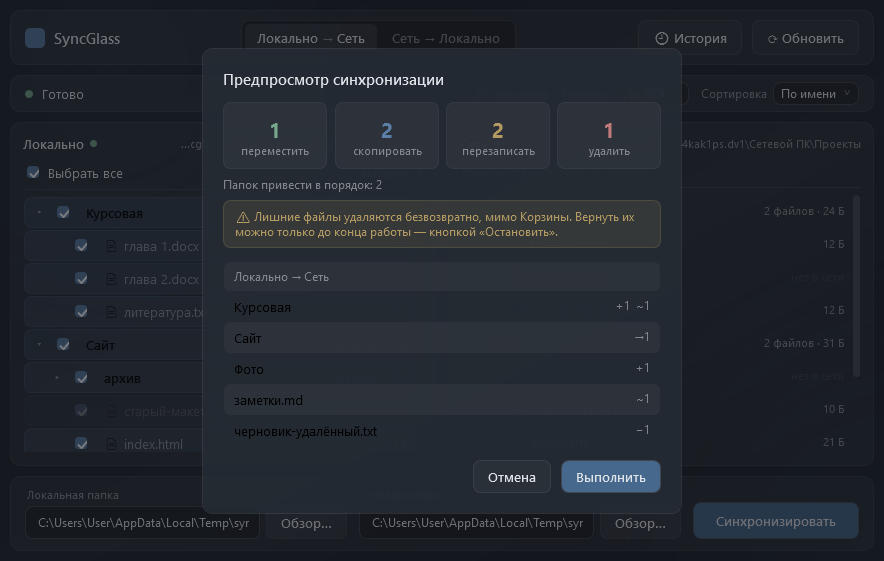
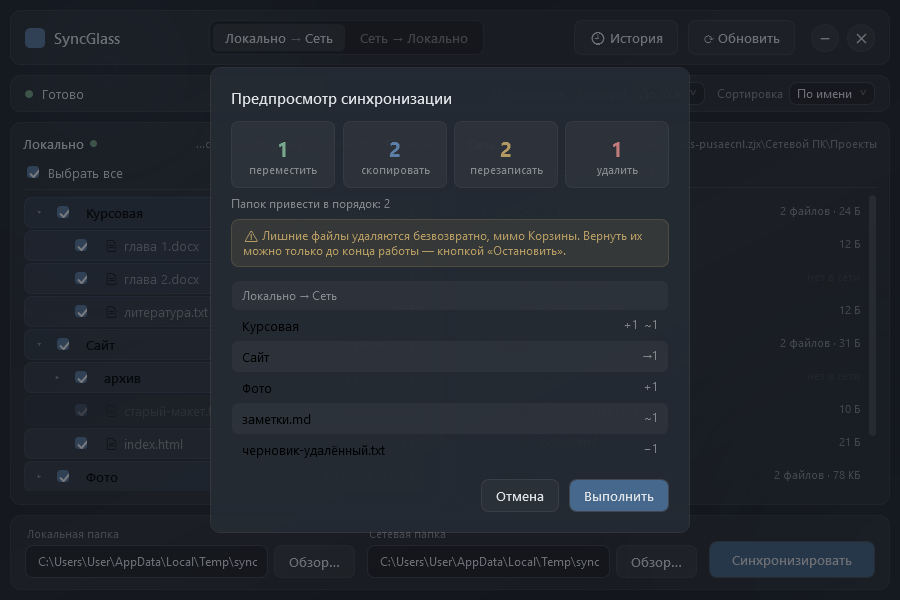
C#: свой заголовок окна, как в Paint - без белой системной полосы, кнопки в цвет темы, скруглённые углы
WindowChrome: заголовком служит верхняя панель, круглые «свернуть» и «закрыть»
(красное на наведении), скругление углов Windows 11 через DWM. Развернуть нечего -
окно постоянного размера. Высота окна целиком отдана содержимому.

diff --git a/csharp/src/SyncGlass.Wpf/Glass.xaml b/csharp/src/SyncGlass.Wpf/Glass.xaml
@@ -41,6 +41,7 @@
 
     <!-- Кнопки: обычная, «призрак», главная -->
     <Style x:Key="GlassButton" TargetType="Button">
+        <Setter Property="WindowChrome.IsHitTestVisibleInChrome" Value="True" />
         <Setter Property="Foreground" Value="{StaticResource Text}" />
         <Setter Property="Background" Value="{StaticResource GlassBg}" />
         <Setter Property="BorderBrush" Value="{StaticResource GlassBorder}" />
@@ -99,6 +100,7 @@
 
     <!-- Переключатель направления: два положения в утопленной рамке -->
     <Style x:Key="DirButton" TargetType="RadioButton">
+        <Setter Property="WindowChrome.IsHitTestVisibleInChrome" Value="True" />
         <Setter Property="Foreground" Value="{StaticResource TextDim}" />
         <Setter Property="FontSize" Value="12.5" />
         <Setter Property="FontWeight" Value="Medium" />
@@ -277,5 +279,38 @@
         <Setter Property="VirtualizingPanel.IsVirtualizing" Value="True" />
         <Setter Property="VirtualizingPanel.VirtualizationMode" Value="Recycling" />
         <Setter Property="VirtualizingPanel.ScrollUnit" Value="Pixel" />
+    </Style>
+    <!-- Кнопки окна в цвет темы, как в Paint Pro и калькуляторах: системная светлая полоса
+         заголовка со своими кнопками бросалась в глаза на тёмном стекле. -->
+    <Style x:Key="CaptionButton" TargetType="Button">
+        <Setter Property="Width" Value="28" />
+        <Setter Property="Height" Value="28" />
+        <Setter Property="Margin" Value="8,0,0,0" />
+        <Setter Property="Cursor" Value="Hand" />
+        <Setter Property="Focusable" Value="False" />
+        <Setter Property="WindowChrome.IsHitTestVisibleInChrome" Value="True" />
+        <Setter Property="Background" Value="{StaticResource GlassBg}" />
+        <Setter Property="BorderBrush" Value="{StaticResource GlassBorder}" />
+        <Setter Property="Template">
+            <Setter.Value>
+                <ControlTemplate TargetType="Button">
+                    <Border x:Name="Bg" CornerRadius="14" Background="{TemplateBinding Background}" BorderBrush="{TemplateBinding BorderBrush}" BorderThickness="1">
+                        <ContentPresenter HorizontalAlignment="Center" VerticalAlignment="Center" />
+                    </Border>
+                    <ControlTemplate.Triggers>
+                        <Trigger Property="IsMouseOver" Value="True">
+                            <Setter TargetName="Bg" Property="Background" Value="{StaticResource GlassBgStrong}" />
+                        </Trigger>
+                        <MultiTrigger>
+                            <MultiTrigger.Conditions>
+                                <Condition Property="IsMouseOver" Value="True" />
+                                <Condition Property="Tag" Value="close" />
+                            </MultiTrigger.Conditions>
+                            <Setter TargetName="Bg" Property="Background" Value="#D9FF5050" />
+                        </MultiTrigger>
+                    </ControlTemplate.Triggers>
+                </ControlTemplate>
+            </Setter.Value>
+        </Setter>
     </Style>
 </ResourceDictionary>

diff --git a/csharp/src/SyncGlass.Wpf/MainWindow.xaml b/csharp/src/SyncGlass.Wpf/MainWindow.xaml
@@ -7,6 +7,16 @@
         WindowStartupLocation="CenterScreen" Background="#1C2128"
         FontFamily="Segoe UI" FontSize="13" Foreground="{StaticResource Text}"
         TextOptions.TextFormattingMode="Display" UseLayoutRounding="True">
+
+    <!-- Свой заголовок окна, как в Paint Pro: системная белая полоса убрана, заголовком
+         служит верхняя панель (за неё окно и таскается). Рамка Windows осталась - тень,
+         прилипание к краям и скругление Windows 11 работают как раньше. Окно не прозрачное:
+         прозрачное WPF рисует без видеокарты. Размер постоянный - рамка не тянется. -->
+    <WindowChrome.WindowChrome>
+        <WindowChrome CaptionHeight="58" ResizeBorderThickness="0" GlassFrameThickness="0,0,0,1"
+                      CornerRadius="0" UseAeroCaptionButtons="False" />
+    </WindowChrome.WindowChrome>
+
     <Window.Resources>
         <BooleanToVisibilityConverter x:Key="BoolVis" />
         <local:InverseBoolVisibility x:Key="NotVis" />
@@ -307,6 +317,12 @@
                     <StackPanel DockPanel.Dock="Right" Orientation="Horizontal">
                         <Button Style="{StaticResource GhostButton}" Content="🕘 История" ToolTip="История синхронизаций" Click="History_Click" />
                         <Button Style="{StaticResource GhostButton}" Content="⟳ Обновить" ToolTip="Пересканировать папки" Margin="10,0,0,0" Click="Refresh_Click" />
+                        <Button Style="{StaticResource CaptionButton}" ToolTip="Свернуть" Margin="16,0,0,0" Click="Minimize_Click">
+                            <Path Data="M0,0 L10,0" Stroke="{StaticResource Text}" StrokeThickness="1.4" Width="10" Height="1.4" Stretch="Fill" />
+                        </Button>
+                        <Button Style="{StaticResource CaptionButton}" Tag="close" ToolTip="Закрыть" Click="Close_Click">
+                            <Path Data="M0,0 L9,9 M9,0 L0,9" Stroke="{StaticResource Text}" StrokeThickness="1.4" Width="9" Height="9" />
+                        </Button>
                     </StackPanel>
                     <Border HorizontalAlignment="Center" Background="#40000000" CornerRadius="7" BorderBrush="#0FFFFFFF" BorderThickness="1" Padding="3">
                         <StackPanel Orientation="Horizontal">

diff --git a/csharp/src/SyncGlass.Wpf/MainWindow.xaml.cs b/csharp/src/SyncGlass.Wpf/MainWindow.xaml.cs
@@ -81,6 +81,11 @@ public partial class MainWindow : Window
     protected override void OnSourceInitialized(EventArgs e)
     {
         base.OnSourceInitialized(e);
+        // Скругление углов Windows 11: без системного заголовка оно пропадает - просим явно.
+        // На Windows 10 вызова нет, там углы у всех окон прямые.
+        var round = 2; // DWMWCP_ROUND
+        try { DwmSetWindowAttribute(new WindowInteropHelper(this).Handle, 33 /* DWMWA_WINDOW_CORNER_PREFERENCE */, ref round, sizeof(int)); }
+        catch (EntryPointNotFoundException) { }
         if (PlacementFile == null) return;
         var p = Place.Restore(Place.Load(PlacementFile), Screens(), Size);
         if (p.X is { } x && p.Y is { } y)
@@ -142,6 +147,13 @@ public partial class MainWindow : Window
 
     [DllImport("user32.dll")]
     private static extern bool GetMonitorInfo(IntPtr monitor, ref MonitorInfo info);
+
+    [DllImport("dwmapi.dll")]
+    private static extern int DwmSetWindowAttribute(IntPtr hwnd, int attribute, ref int value, int size);
+
+    private void Minimize_Click(object sender, RoutedEventArgs e) => WindowState = System.Windows.WindowState.Minimized;
+
+    private void Close_Click(object sender, RoutedEventArgs e) => Close();
 
     // ---- События ----
 
